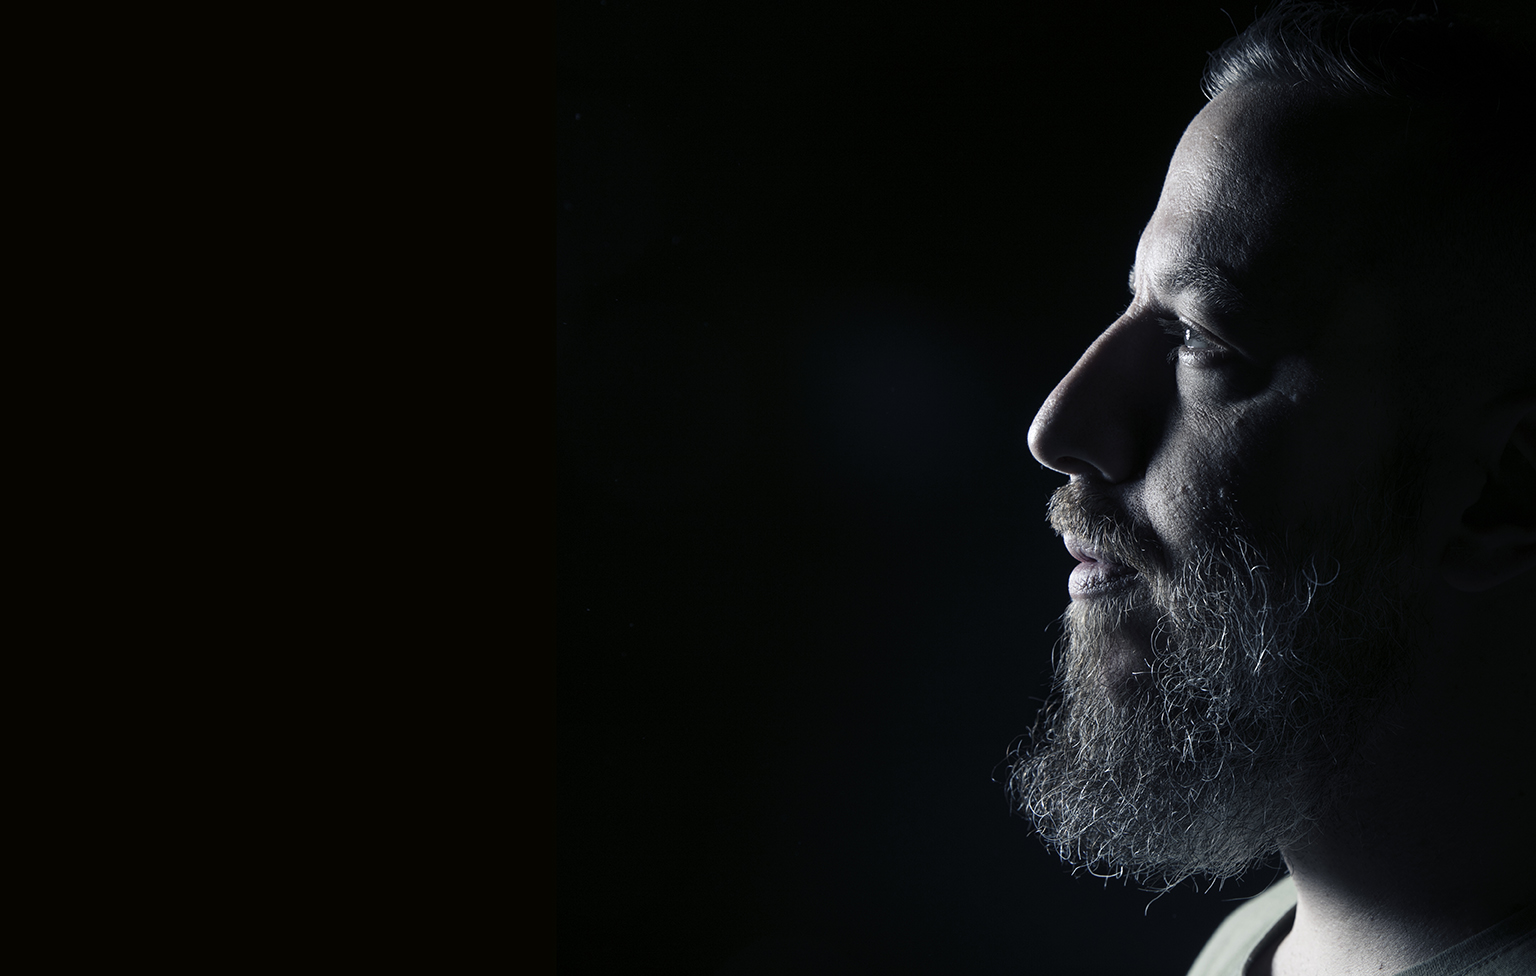
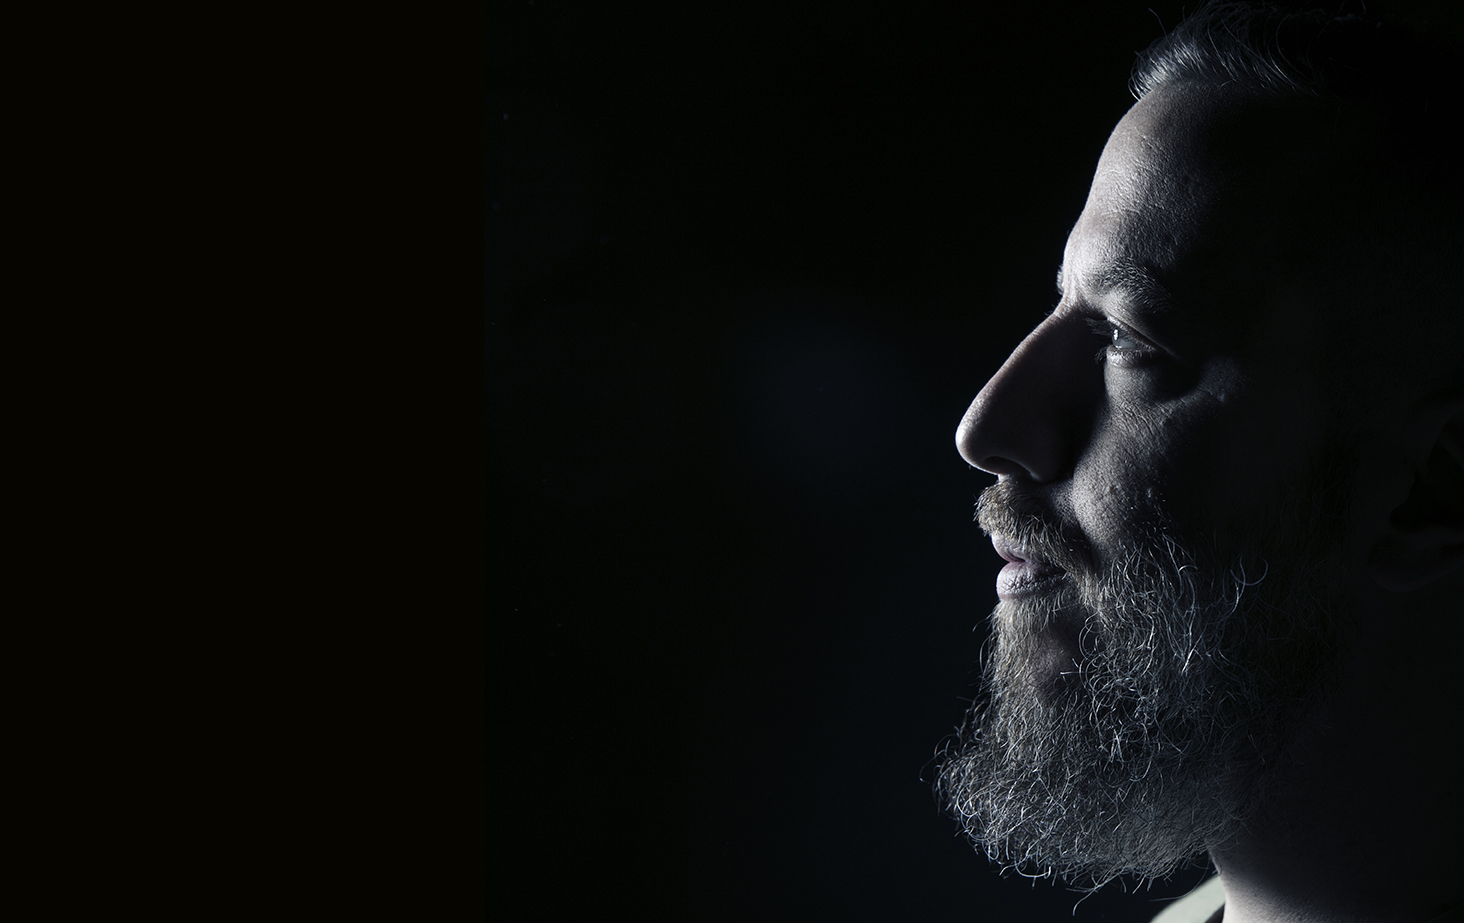
modified mobile view

Changed region(s): [[0.6455, 0.0303, 1.0, 1.0]]

diff --git a/src/App.js b/src/App.js
@@ -2,15 +2,12 @@ import './App.css';
 import Contact from './Pages/Contact';
 import Projects from './Pages/Projects';
 import Home from './Pages/Home';
-import Navbar from './Navbar/Navbar';
 import About from './Pages/About';
-import { BrowserRouter as Router, Switch, Route } from 'react-router-dom';
-import ProfileImage from './putte.jpg';
+import Navbar from './Navbar/Navbar';
 import Sidebar from './Sidebar/Sidebar';
-import styled from 'styled-components';
-import { useState } from 'react'
-
-
+import ProfileImage from './putte.jpg';
+import { BrowserRouter as Router, Switch, Route } from 'react-router-dom';
+import { useState } from 'react';
 
 const App = () => {
   const [isOpen, SetIsOpen] = useState(false);
@@ -21,21 +18,56 @@ const App = () => {
 
   return (
     <Router>
-      <Navbar toggle={toggle}/>
-      <Sidebar  isOpen={isOpen} toggle={toggle} />
+      <Navbar toggle={toggle} />
+      <Sidebar isOpen={isOpen} toggle={toggle} />
       <Switch>
-        
         <Route path='/about'>
           <About />
+          <>
+            {
+              <img
+                src={ProfileImage}
+                className='profileImage'
+                alt='Patrik profile'
+              />
+            }
+          </>
         </Route>
         <Route path='/projects'>
-            <Projects className='profileImage' />
+          <Projects />
+          <>
+            {
+              <img
+                src={ProfileImage}
+                className='profileImage'
+                alt='Patrik profile'
+              />
+            }
+          </>
         </Route>
         <Route path='/contact'>
           <Contact />
+          <>
+            {
+              <img
+                src={ProfileImage}
+                className='profileImage'
+                alt='Patrik profile'
+              />
+            }
+          </>
         </Route>
         <Route path='/'>
           <Home />
+          <>
+            {
+              <img
+                src={ProfileImage}
+                className='profileImage'
+                alt='Patrik profile'
+              />
+            }
+          </>
         </Route>
       </Switch>
     </Router>

diff --git a/src/Pages/Projects.js b/src/Pages/Projects.js
@@ -1,8 +1,5 @@
 import styled from 'styled-components';
 import { useState, useEffect } from 'react';
-import Navbar from '../Navbar/Navbar';
-import Sidebar from '../Sidebar/Sidebar';
-import ProfileImage from '../putte.jpg';
 
 const ProjectWrapper = styled.div`
   display: flex;
@@ -11,33 +8,55 @@ const ProjectWrapper = styled.div`
 `;
 
 const ProjectContainer = styled.div`
+  margin-left: 100px;
 
-  /* margin-left: 100px; */
+  
+
+  @media screen and (max-width: 480px) {
+    margin-left: 0;
+    & >h1 {
+    margin-left: 100px;
+
+  }
+  }
+
+ 
 `;
 
 const ProjectsStyle = styled.div`
   display: flex;
   flex-wrap: wrap;
-  justify-content: space-around;
-  background-color: white;
+  /* justify-content: space-around; */
+  /* background-color: green; */
   max-width: 900px;
+  @media screen and (max-width: 480px) {
+      justify-content: space-around;
+
+  }
 `;
+
 
 const StyledCard = styled.div`
   display: flex;
   flex-direction: column;
   background-color: lightgray;
-  padding: 0px 5px;
-  margin: 10px 10px 10px 10px;
+  padding: 10px 5px;
+  margin: 5px 10px 5px 0;
+  /* margin-right:130px; */
   min-width: 300px;
+  border-radius: 5px;
+
+& .repo-name {
+  margin-left:10px;
+  
+}
+
 `;
-const StyledSizeFix = styled.div`
-max-width: 1050px;
-
-`
-function Projects() {
 
 
+
+
+const Projects = () => {
   const [repos, setRepos] = useState([]);
 
   useEffect(() => {
@@ -47,14 +66,14 @@ function Projects() {
   }, []);
 
   return (
-    <ProjectWrapper> 
+    <ProjectWrapper>
       <ProjectContainer>
-        <h1>Projects!</h1>
-        <div className='profileImage' />
+        <h1>Projects</h1>
+    
         <ProjectsStyle>
           {repos.map((repo) => (
             <StyledCard>
-              <h2 key={repo.id}>{repo.name}</h2>
+              <h2 className='repo-name' key={repo.id}>{repo.name}</h2>
               <p>{repo.description}</p>
               <a href={repo.html_url}>Github</a>
             </StyledCard>

diff --git a/src/App.css b/src/App.css
@@ -40,23 +40,30 @@ body {
 }
 
 .profileImage {
-  background: url(./putte.jpg);
-  width: 653px;
-  /* height:80% ; */
+  /* background: url(./putte.jpg); */
+  /* width: 80%; */
+  height: 80% ;
   margin: auto;
   position: absolute;
-  top: 0px;
-  /* padding: 1%; */
+  top: 1px;
   right: 10px;
-  bottom: -14%;
-  border-radius: 10px;
+  bottom: -19%;
   background-repeat: no-repeat;
   background-position: center;
   background-attachment: fixed;
   background-size: cover;
-  /* opacity: 0.9; */
+  opacity: 0.8;
   z-index: -1;
 }
+
+
+@media screen and (max-width: 480px) {
+  .profileImage {
+    /* width: 60px; */
+    opacity: 0.4;
+  }
+}
+
 
 .homeContainer {
   /* border: 1px solid green; */
@@ -64,31 +71,41 @@ body {
   flex-direction: column;
 }
 
+@media screen and (max-width:480px) {
+  .homeContainer {
+    margin-right: 100px;
+  }
+}
+
+
 .hello {
   /* border: 1px solid lightblue; */
 
   display: flex;
   font-size: 7rem;
   padding-left: 100px;
-  /* @media screen and (max-width: 768px) {
-    padding-left: 100px;
-    font-size: 2rem;
-  } */
-}
+  }
+
+  @media screen and (max-width: 480px) {
+    .hello {
+      font-size: 5rem;
+      line-height: 80px;
+    }
+  }
 
 .line {
   display: flex;
   border-bottom: 1px solid rgba(255, 255, 255, 0.084);
-  width: 550px;
+  width: 50vw;
   margin-top: -60px;
   margin-left: 100px;
-
-  /* height: 30px; 
-  border-style: solid; 
-  border-color: #8c8b8b; 
-  border-width: 1px 1px 0 0; 
-  border-radius: 200px;  */
 }
+
+/* @media screen and (max-width: 480px) {
+  .line {
+    margin-top: 1px;
+  }
+} */
 
 .welcome {
   /* border: 1px solid red; */
@@ -105,10 +122,4 @@ body {
   max-width: 500px;
   font-weight: 300;
   line-height: 25px;
-}
-
-@media screen and (max-width: 600px) {
-  .profileImage {
-    /* width: 90%; */
-  }
 }

diff --git a/src/Sidebar/SidebarElements.js b/src/Sidebar/SidebarElements.js
@@ -1,7 +1,6 @@
 import styled from 'styled-components';
 import { Link as LinkS } from 'react-router-dom';
 import { FaTimes } from 'react-icons/fa';
-// import { NavLink as Link } from 'react-router-dom';
 
 export const SidebarContainer = styled.aside`
   position: fixed;
@@ -58,32 +57,12 @@ export const SidebarLink = styled(LinkS)`
   color: #fff;
   cursor: pointer;
 
+  @media screen and (max-width: 480px) {
+    margin-right: 30px;
+  }
+
   &:hover {
     color: #01bf71;
     transition: 0.2s ease-in-out;
   }
 `;
-/* export const SideBtnWrap = styled.div`
-  display: flex;
-  justify-content: center;
-`;
-export const SidebarRoute = styled(LinkR)`
-  border-radius: 50px;
-  background: #01bf71;
-  white-space: nowrap;
-  padding: 16px 64px;
-  color: #010606;
-  font-size: 16px;
-  outline: none;
-  border: none;
-  cursor: pointer;
-  transition: all 0.2s ease-in-out;
-  text-decoration: none;
-
-  &:hover {
-    transition: all 0.2s ease-in-out;
-    background: #fff;
-    color: #010606;
-  }
-`;
- */

diff --git a/src/Navbar/NavbarElements.js b/src/Navbar/NavbarElements.js
@@ -7,7 +7,7 @@ export const Nav = styled.nav`
   height: 80px;
   display: flex;
   justify-content: space-between;
-  padding: 0.5rem calc((vw - 1000px) / 2);
+  padding: 0.5rem calc((1vw - 1000px) / 2);
   z-index: 10;
   padding-right: 100px;
   font-family: 'Roboto';
@@ -26,8 +26,6 @@ export const Nav = styled.nav`
     font-style: italic;
   
 `;
-
-
 
 export const NavLink = styled(Link)`
   color: #fff;
@@ -78,26 +76,3 @@ export const NavMenu = styled.div`
     display: none;
   }
 `;
-// export const NavBtn = styled.nav`
-//   display: flex;
-//   align-items: center;
-//   margin-right: 24px;
-// `;
-
-// export const NavBtnLink = styled(Link)`
-//   border-radius: 4px;
-//   background: #256ce1;
-//   padding: 10px 22px;
-//   color: #fff;
-//   border: none;
-//   outline: none;
-//   cursor: pointer;
-//   transition: all 0.2s ease-in-out;
-//   text-decoration: none;
-
-//   &:hover {
-//     transition: all 0.2s ease-in-out;
-//     background: #fff;
-//     color: #00ccff;
-//   }
-// `;

diff --git a/src/Pages/Home.js b/src/Pages/Home.js
@@ -1,7 +1,3 @@
-// import React, { useState } from 'react';
-import Navbar from '../Navbar/Navbar';
-import Sidebar from '../Sidebar/Sidebar';
-import React, { useState } from 'react';
 
 
 function Home() {
